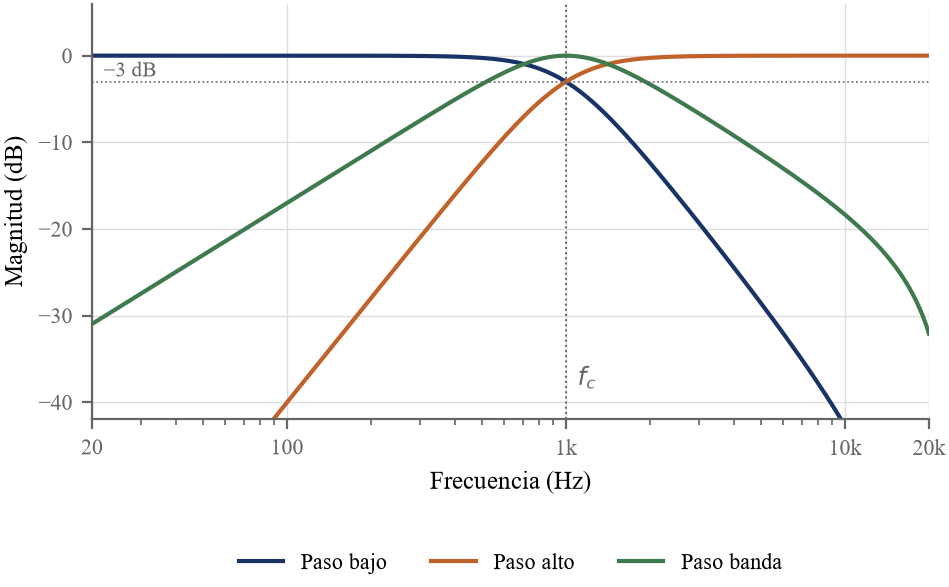
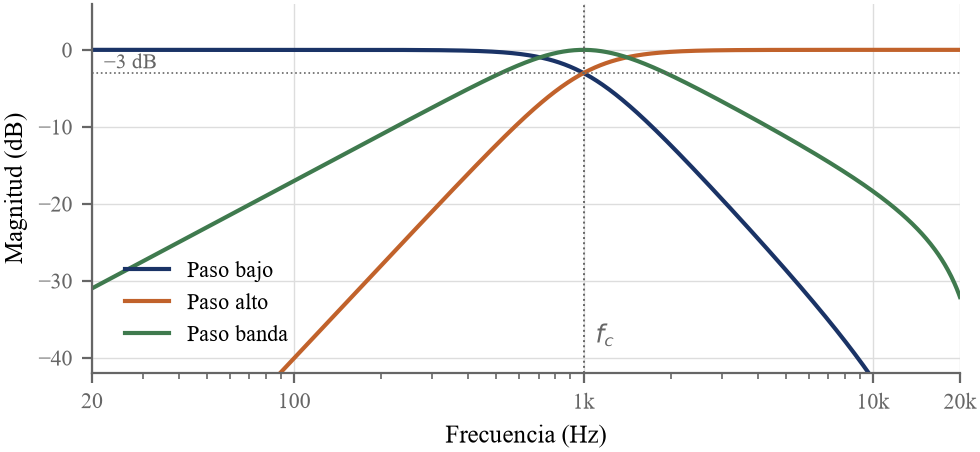
Memoria: colocacion de figuras y eliminacion de paginas en blanco
Cuatro ajustes de maquetacion sobre la plantilla:

- openany en la clase. book arrancaba cada capitulo en pagina impar e
  insertaba una pagina en blanco cuando el anterior acababa en impar.
  Eran seis paginas vacias.
- Contador de pagina de -2 a -1, para que el capitulo 1 siga cayendo en
  la pagina 1 tras quitar esas paginas en blanco.
- Parametros de flotantes relajados. Los de fabrica exigen que un 20 por
  ciento de la pagina sea texto, lo que empujaba las figuras varias
  paginas mas alla de donde se citan.
- placeins con la opcion section. Es el arreglo de fondo: sin el, una
  figura podia flotar hasta dentro de la seccion siguiente y aparecer
  bajo un epigrafe que no le corresponde. Le pasaba a la figura de los
  filtros, que acababa dentro de "Sintesis por tabla de ondas".

La figura de filtros se compacta llevando la leyenda dentro de los ejes.

build.ps1 detecta ahora que main.pdf este abierto en un visor, que
bloquea el fichero en Windows y hacia fallar la compilacion al final sin
explicar la causa.

36 paginas frente a las 42 anteriores.

diff --git a/memoria/plantilla latex/capitulos/02_estado_arte.tex b/memoria/plantilla latex/capitulos/02_estado_arte.tex
@@ -3,7 +3,7 @@
 Este capítulo reúne los conceptos necesarios para seguir el resto del documento.
 Se parte de los fundamentos de la síntesis de sonido, se detalla la técnica
 concreta sobre la que se construye el instrumento y se introducen los
-autoencoders y la noción de espacio latente. El capítulo termina con una
+autoencoders y el espacio latente. El capítulo termina con una
 revisión de los trabajos previos que aplican redes neuronales a la generación de
 formas de onda, que es donde se sitúa la aportación de este trabajo.
 
@@ -168,12 +168,13 @@ banda queda fuera del alcance de este trabajo.
 
 \section{Autoencoders y espacio latente}
 
-Un autoencoder es una red neuronal entrenada para reproducir su propia entrada.
-Está formado por dos bloques. El codificador transforma la entrada en una
-representación de dimensión mucho menor, y el decodificador intenta reconstruir
-la entrada original a partir de esa representación. La representación intermedia
-recibe el nombre de código o vector latente, y el espacio en el que vive, espacio
-latente.
+Un autoencoder es una red neuronal entrenada para intentar reconstruir su propia entrada.
+Está formado por dos bloques. El codificador, que transforma la entrada en una
+representación de dimensión mucho menor; y el decodificador, que intenta reconstruir
+la entrada original a partir de esa representación reducida. La representación intermedia
+recibe el nombre de código o vector latente. Los autoencoders son capaces de organizar estos
+vectores latentes en base a las características de los datos de entrada, de modo que entradas similares acaban
+situadas cerca unas de otras en un espacio. Es lo denominado el espacio latente. 
 
 El interés de esta arquitectura no está en la reconstrucción en sí, que sería
 trivial si no se impusiera ninguna restricción, sino en el cuello de botella. Al

diff --git a/memoria/plantilla latex/preambulo.tex b/memoria/plantilla latex/preambulo.tex
@@ -131,6 +131,20 @@
 %Pie de figura en negrita
 \usepackage[font=footnotesize,labelfont=bf]{caption}
 %%%%%%%%%%%%%%%%%%%%%%%%%%%%%%%%%%%%%%%%%%%%%%%%%%%%%%%%
+%Colocacion de figuras: los valores por defecto de LaTeX son muy
+%restrictivos y empujan las figuras a paginas posteriores
+\renewcommand{\topfraction}{0.9}
+\renewcommand{\bottomfraction}{0.7}
+\renewcommand{\textfraction}{0.1}
+\renewcommand{\floatpagefraction}{0.75}
+\setcounter{topnumber}{3}
+\setcounter{bottomnumber}{2}
+\setcounter{totalnumber}{4}
+\setlength{\intextsep}{12pt plus 4pt minus 4pt}
+\setlength{\textfloatsep}{14pt plus 4pt minus 4pt}
+%Impide que una figura se cuele en una seccion posterior a la que la cita
+\usepackage[section]{placeins}
+%%%%%%%%%%%%%%%%%%%%%%%%%%%%%%%%%%%%%%%%%%%%%%%%%%%%%%%%
 %DESCOMENTAR para tener numeración de figuras y tablas 
 %continua en todo el documento
 %\renewcommand\thefigure{\arabic{figure}}

diff --git a/memoria/figuras/fig_filtros.py b/memoria/figuras/fig_filtros.py
@@ -39,7 +39,7 @@ def respuesta(b, a, f, fs):
 
 f = np.logspace(np.log10(20), np.log10(20000), 800)
 
-fig, ax = plt.subplots(figsize=(5.4, 2.7))
+fig, ax = plt.subplots(figsize=(5.6, 2.4))
 
 for tipo, color, etiqueta in [("lp", AZUL, "Paso bajo"),
                               ("hp", NARANJA, "Paso alto"),
@@ -59,7 +59,7 @@ ax.set_xlabel("Frecuencia (Hz)")
 ax.set_ylabel("Magnitud (dB)")
 ax.set_xticks([20, 100, 1000, 10000, 20000])
 ax.set_xticklabels(["20", "100", "1k", "10k", "20k"])
-ax.legend(loc="lower center", ncol=3, bbox_to_anchor=(0.5, -0.42))
+ax.legend(loc="lower left", ncol=1, bbox_to_anchor=(0.015, 0.02))
 for lado in ("top", "right"):
     ax.spines[lado].set_visible(False)
 

diff --git a/memoria/plantilla latex/main.tex b/memoria/plantilla latex/main.tex
@@ -1,4 +1,4 @@
-\documentclass[11pt,spanish,a4paper,hidelinks]{book}
+\documentclass[11pt,spanish,a4paper,hidelinks,openany]{book}
 \input{preambulo}
 %%%%%%%%%%%%%%%%%%%%%%%%%%%%%%%%%%%%%%%%%%%%%%%%%%%%%%%%%%%%%%%%%%%%%%%
 %%%%%%%%%%%%%%%%%%%%%%%%%%%%%%%%%%%%%%%%%%%%%%%%%%%%%%%%%%%%%%%%%%%%%%%
@@ -141,7 +141,7 @@ A mis padres.
 \newpage
 \input{siglas}
 \thispagestyle{empty}
-\setcounter{page}{-2}
+\setcounter{page}{-1}
 \addtocontents{toc}{\protect\thispagestyle{empty}}
 \part{Memoria}
 
